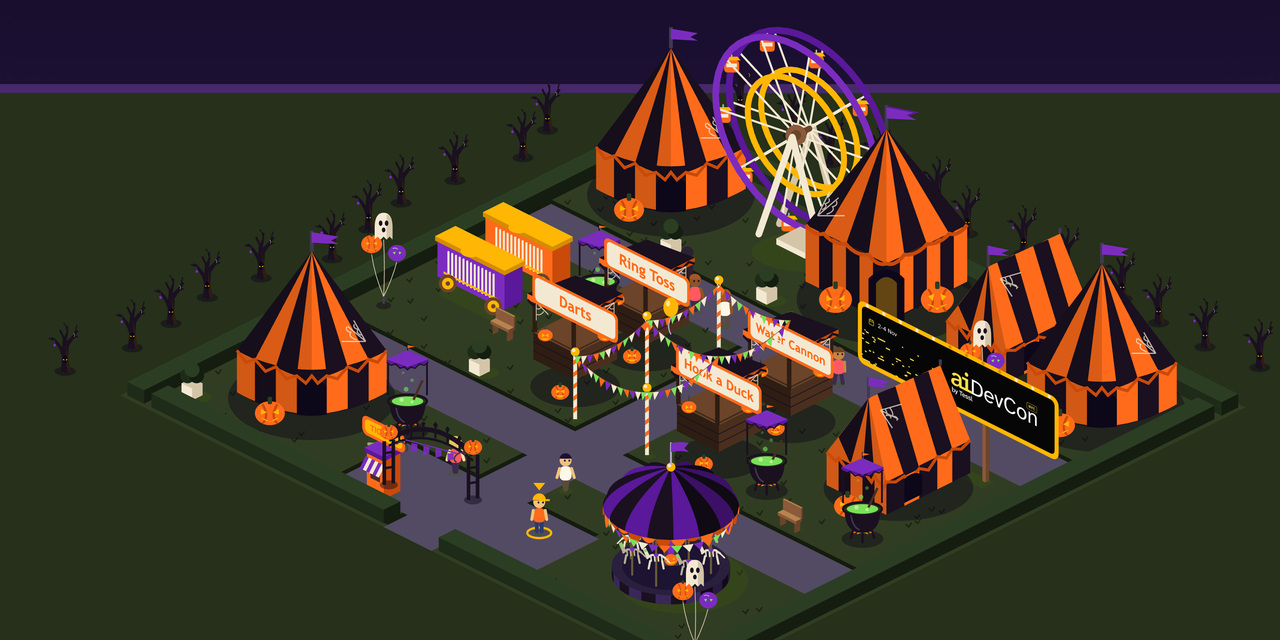
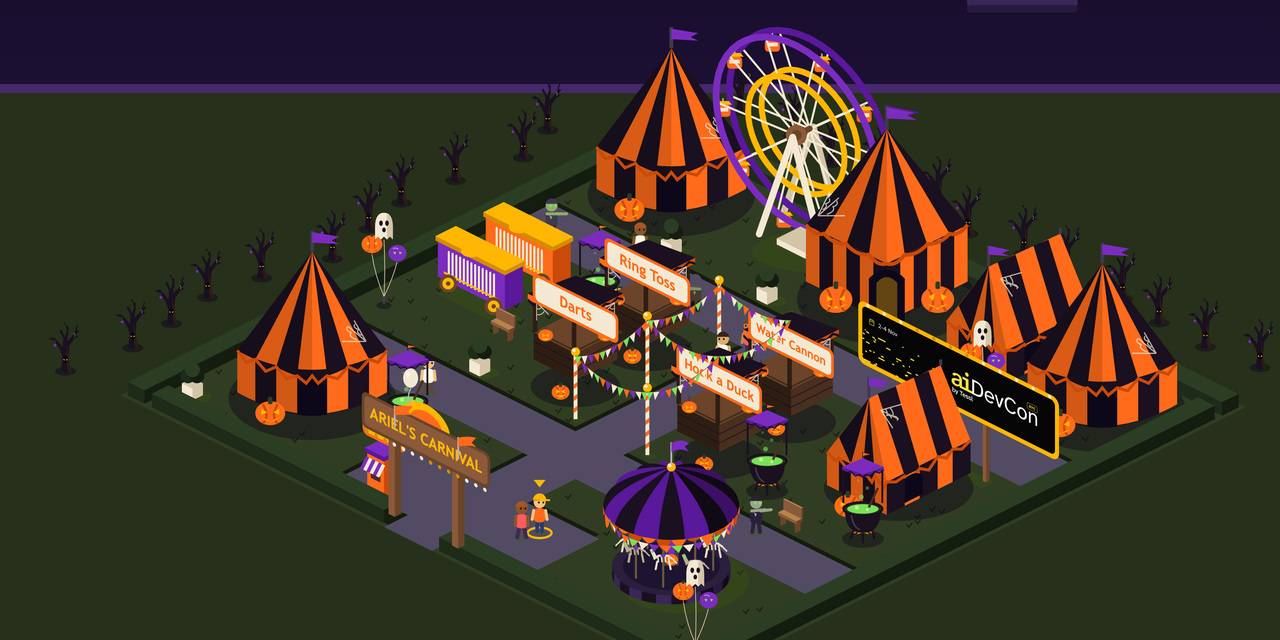
Update Halloween social preview with Ariel's Carnival gate

diff --git a/index.html b/index.html
@@ -22,7 +22,7 @@
     />
     <meta
       property="og:image"
-      content="https://raw.githubusercontent.com/asakin/tessl-carnival/main/docs/social-preview.jpg?v=2"
+      content="https://raw.githubusercontent.com/asakin/tessl-carnival/main/docs/social-preview.jpg?v=3"
     />
     <meta property="og:image:width" content="1280" />
     <meta property="og:image:height" content="640" />
